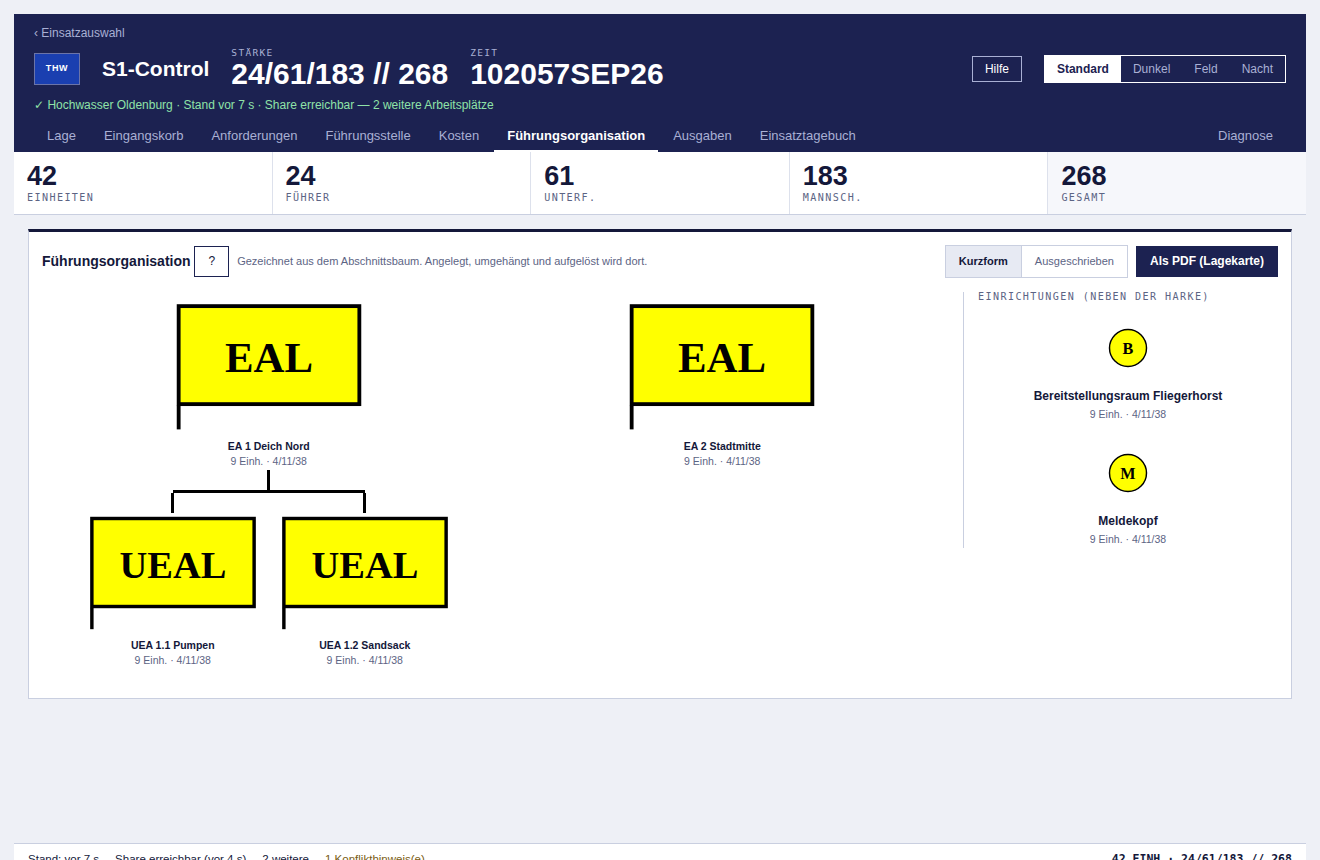
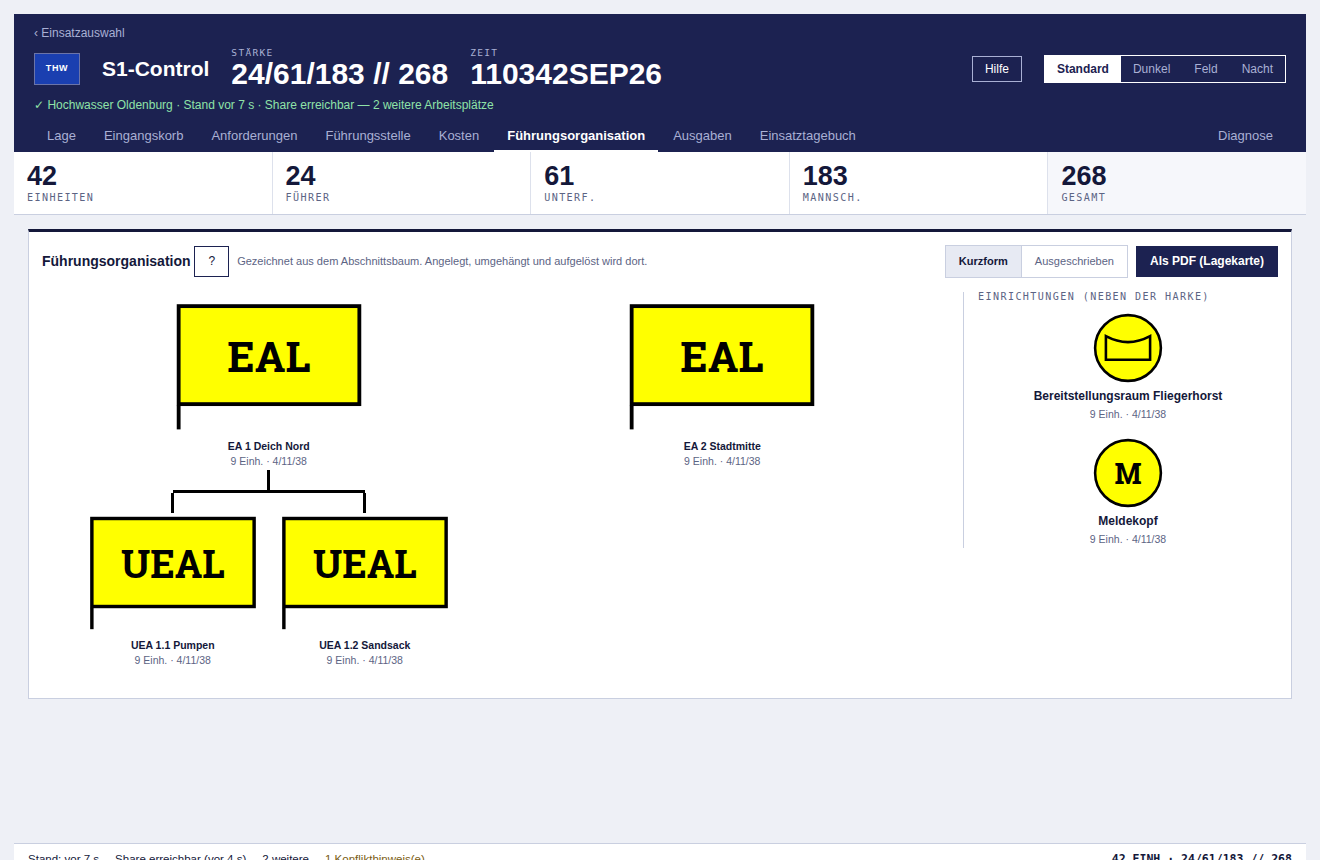
docs(entwurf): Herkunft der taktischen Zeichen im Stand nachgezogen
Claude-Session: https://claude.ai/code/session_01ApCu8BkD42ycPFdkLp88CE

diff --git a/docs/v2/entwurf/oberflaeche/README.md b/docs/v2/entwurf/oberflaeche/README.md
@@ -61,24 +61,37 @@ Abschnittsbaum, kein zweiter Editor. Je Ebene steht ein CSS-Grid aus gleichen
 Spalten; der Querbalken spannt mit `margin: 0 calc(100 %/2n)` genau von Mitte
 zu Mitte der äußeren Kinder, Abzweigstummel und Zeichen sitzen in derselben
 Zelle und beide zentriert, ohne `transform`. Linien 3 px, Stummel 20/16/14,
-Knoten 196/176/118 px. Die Beschriftung hängt an Typ **und** Tiefe — derselbe
-Einsatzort heißt auf Ebene 1 EAL und darunter UEAL —, deshalb tragen die
-Zeichen ihren Text aus dem Code und nicht aus der SVG-Datei. Meldekopf,
+Knoten 196/176/118 px. Welches Zeichen ein Knoten bekommt, hängt an Typ **und**
+Tiefe — derselbe Einsatzort ist auf Ebene 1 ein Einsatzabschnitt und darunter
+ein Untereinsatzabschnitt, und die Dateien tragen ihren Text fest. Meldekopf,
 Bereitstellungsraum und Logistik stehen als Einrichtungen neben der Harke, weil
 sie keine Führungsebene sind. Der Knopf „Als PDF (Lagekarte)" schreibt die
 vorhandene Ausgabe `fueorg` (M8.3); das gedruckte Blatt ist weiterhin die
 eingerückte Liste aus `@s1/ausgaben`.
 
-Offen: der Zeichensatz-Auszug als Legende neben der Harke, die Feingestaltung der Bogenübernahme aus
-erfassungsbogen.app (Option 2d) und die Führungsharke als Bildschirmansicht —
-sie existiert bislang nur als Ausgabe `fueorg`. Die taktischen Zeichen aus dem
-Bündel liegen unter `apps/desktop/assets/tz/clean/` (`viewBox 0 0 256 256`, ohne
-C2PA-Metadaten) und werden noch nicht gezeichnet. Vor ihrer ersten Verwendung
-ist Roboto Slab Bold lokal einzubinden: Die Anwendung läuft offline, eine
-Schrift von Google Fonts wäre im Einsatz nicht da. Bis dahin zeichnet die Harke
-ihre Zeichen mit dem Rückfall auf Georgia — die Form stimmt, die Serifen sind
-andere. Die gelieferten Dateien trugen je acht Kilobyte C2PA-Metadaten; sie
-sind entfernt, übrig sind rund 500 Byte je Zeichen.
+Offen: der Zeichensatz-Auszug als Legende neben der Harke und die
+Feingestaltung der Bogenübernahme aus erfassungsbogen.app (Option 2d).
+
+Die taktischen Zeichen kommen aus jonas-koeritz/Taktische-Zeichen und liegen
+unter `apps/desktop/assets/tz/`. Der Ordner wird **erzeugt**:
+`bau/zeichen-importieren.mjs` rendert die Jinja2-Vorlagen der Quelle (`make svg`,
+nur j2cli nötig), löst die in jedes SVG eingebettete Schrift heraus und legt sie
+einmal unter `schrift/RobotoSlab-Bold.woff` ab — sonst trüge der Satz bei knapp
+tausend Zeichen über zwanzig Megabyte Schrift. `index.json` führt jedes Zeichen
+mit Kategorie, Datei und ausgeschriebenem Titel, `HERKUNFT.md` den Stand der
+Quelle und die Lizenzen (Quellen CC BY 4.0, erzeugte Zeichen CC0 1.0, Schrift
+Apache-2.0). Die wöchentliche Aktion `.github/workflows/taktische-zeichen.yml`
+prüft montags, ob die Quelle sich geändert hat, spielt sie ein und öffnet einen
+Pull Request; zusammengeführt wird von Hand, denn ein Zeichen, das sich still
+ändert, ändert still die Lagekarte.
+
+Die Oberfläche setzt die Zeichen **inline** (`zeichensatz.ts`, `zeichen.tsx`):
+In einem `<img>` wäre das SVG ein eigenes Dokument ohne Zugriff auf die
+Schriften der Seite, und die Beschriftung fiele auf eine Systemschrift zurück.
+Gebündelt wird nur, was gebraucht wird — heute Führungsstellen und
+Einrichtungen. Die Schrift bindet der `<style>`-Block per `@font-face` ein; die
+Anwendung lädt nichts aus dem Netz. Damit ist auch die offene Frage der
+Offline-Schrift erledigt.
 
 Die fünf offenen Entscheidungen am Ende des Handoffs (Zahl der Themes,
 Modulleiste links, Erfassen im Meldekopf-Modus, Schriftfamilien, gemeinsames
